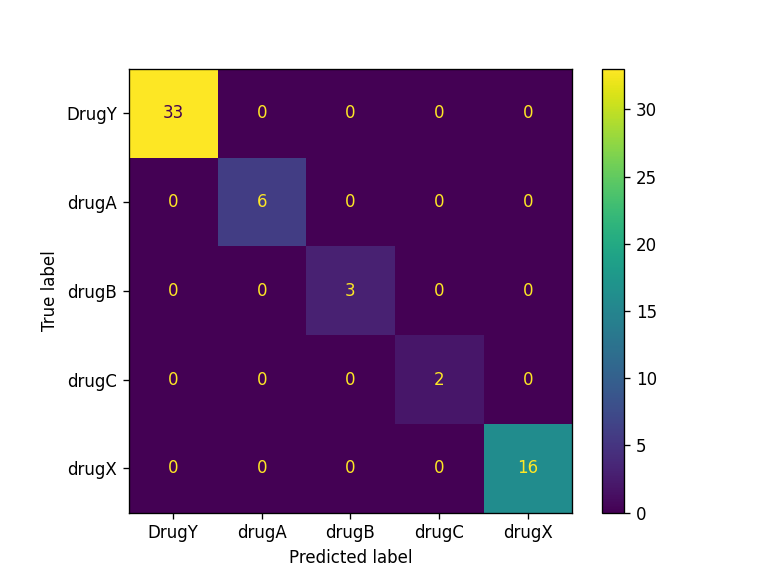
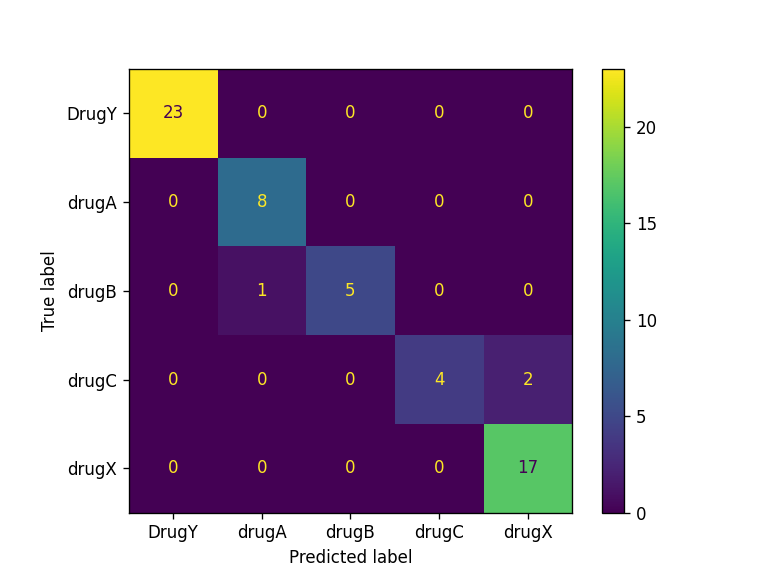
Update CML report and results [CI]

diff --git a/report.md b/report.md
@@ -1,5 +1,5 @@
 ## Model Metrics
 
-Accuracy = 1.00, F1 Score = 1.00.
+Accuracy = 0.95, F1 Score = 0.92.
 ## Confusion Matrix Plot
 ![Confusion Matrix](./Results/model_results.png)
